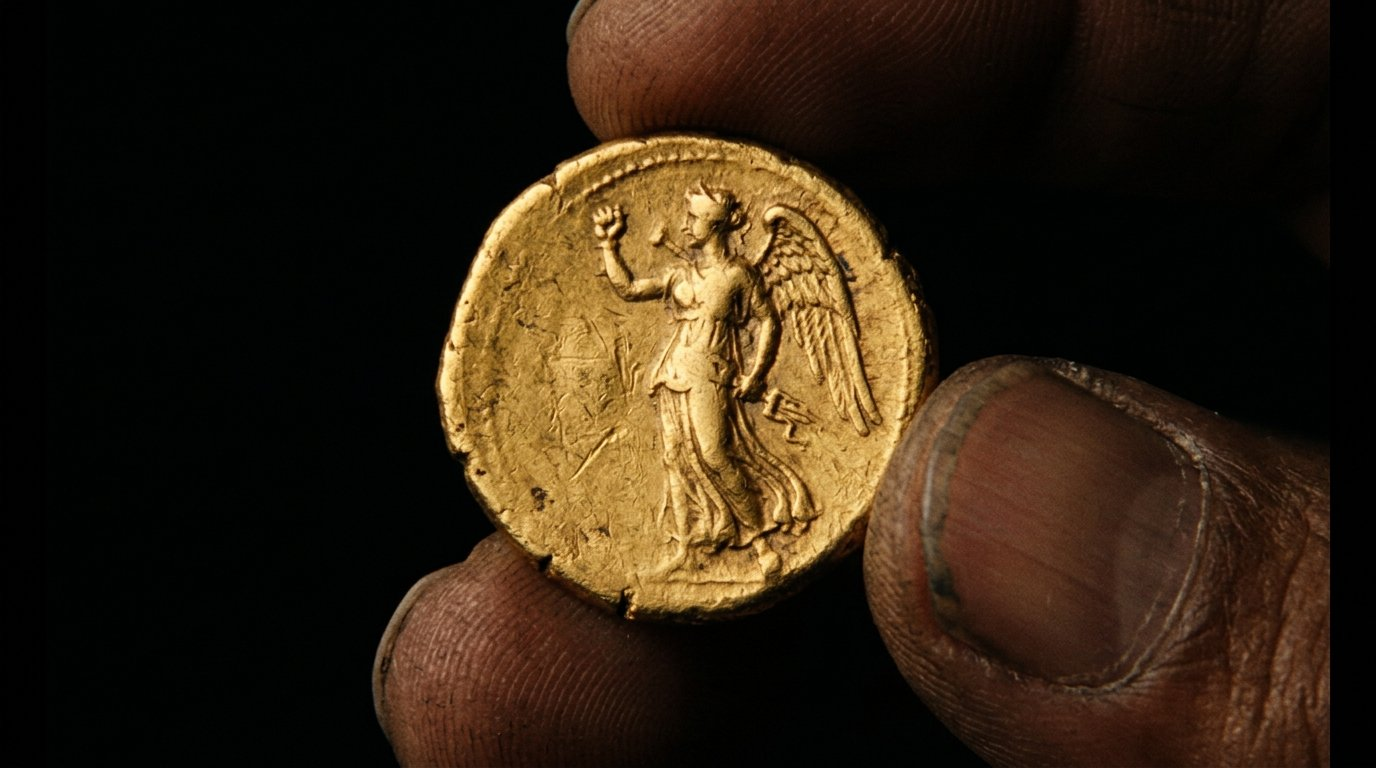
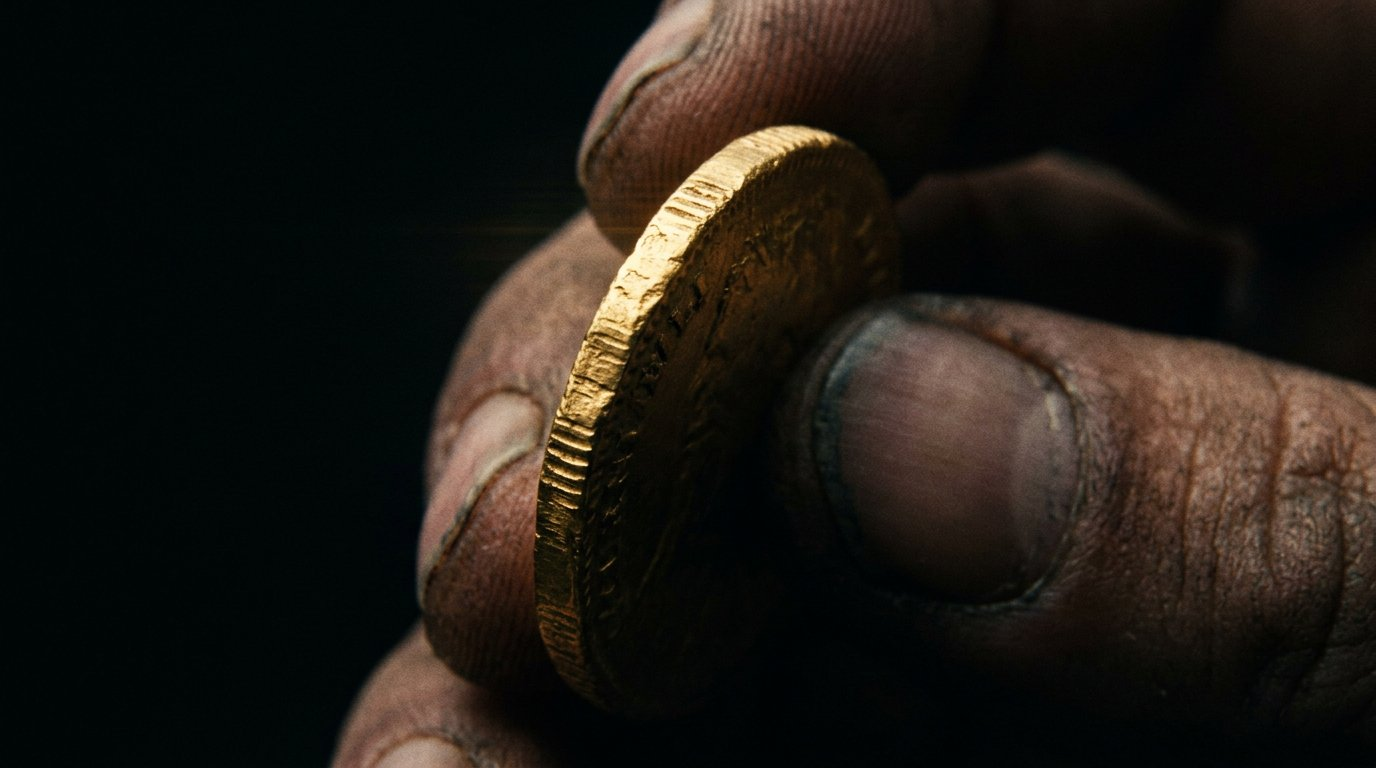
fix(art): 057 was a Greek stater and the map carried a stepped pyramid
Two violations the master sweep could not see, both found by reading
frames out of the finished film.

057 was written as an extreme close-up of the coin face, which produced a
winged Nike in a chiton with a monogram — Greek gold coinage. It passed
earlier audits because the motif matched the intended harpy. Rewritten
edge-on so the design never resolves.

The map base carried a full Mesoamerican stepped pyramid in the Ghis
region, drawn into the map asset rather than any master. Regenerated with
flat-roofed square brick towns only.

diff --git a/scripts/episode-audit/ep002_scene_directions.py b/scripts/episode-audit/ep002_scene_directions.py
@@ -159,8 +159,8 @@ SCENES = {
     "warm lamplight, dusk"),
 56: ('Men at the bottom of a hand-dug excavation pit cut down through grey ash to a burnt brick floor, a wide-mouthed clay jar lying on its side in the earth, long-handled spades and a pick still in the soil and a hand brush, sides of the pit heaped ash and loose rubble, hazy daylight from above, the workers small and faceless in silhouette, the pit walls and ash bed filling most of the frame.',
     "ash grey"),
-57: ("Extreme close-up of the harpy face of the coin, wings, raised fist, thunderbolt, "
-     "worn nearly smooth, held between two fingers against black.", "gold on black"),
+57: ('The gold coin held between two fingers against black, turned almost edge-on and tilted away from the lens so the struck face is foreshortened to a sliver, the light catching only the sheen of the metal and the milled edge and a shallow blur where the design would be, the design itself never resolved into a readable figure, in the hands of an anonymous worker whose fingertips are shadowed and out of focus. No standing winged figure, no goddess in robes, no draped chiton, no winged victory, no monogram or letters in the field, no Greek key border, no legible design at all.',
+     "gold on black"),
 58: ("A dragonlord standing at a cracked parapet above a conquered city at dusk, seen from behind and from a distance so the figure is small: shaved head with a plain bronze circlet, coarse dark breeches and a lye-stained workman's coat, one hand flat on the brick, smoke rising from the roofs below, no silver hair, no platinum hair, no long white hair, no black cloak.",
     VALYRIA + ", dusty gold"),
 59: ("A coin on a merchant's scale beside grain weights, a hand adding weights, the coin "
